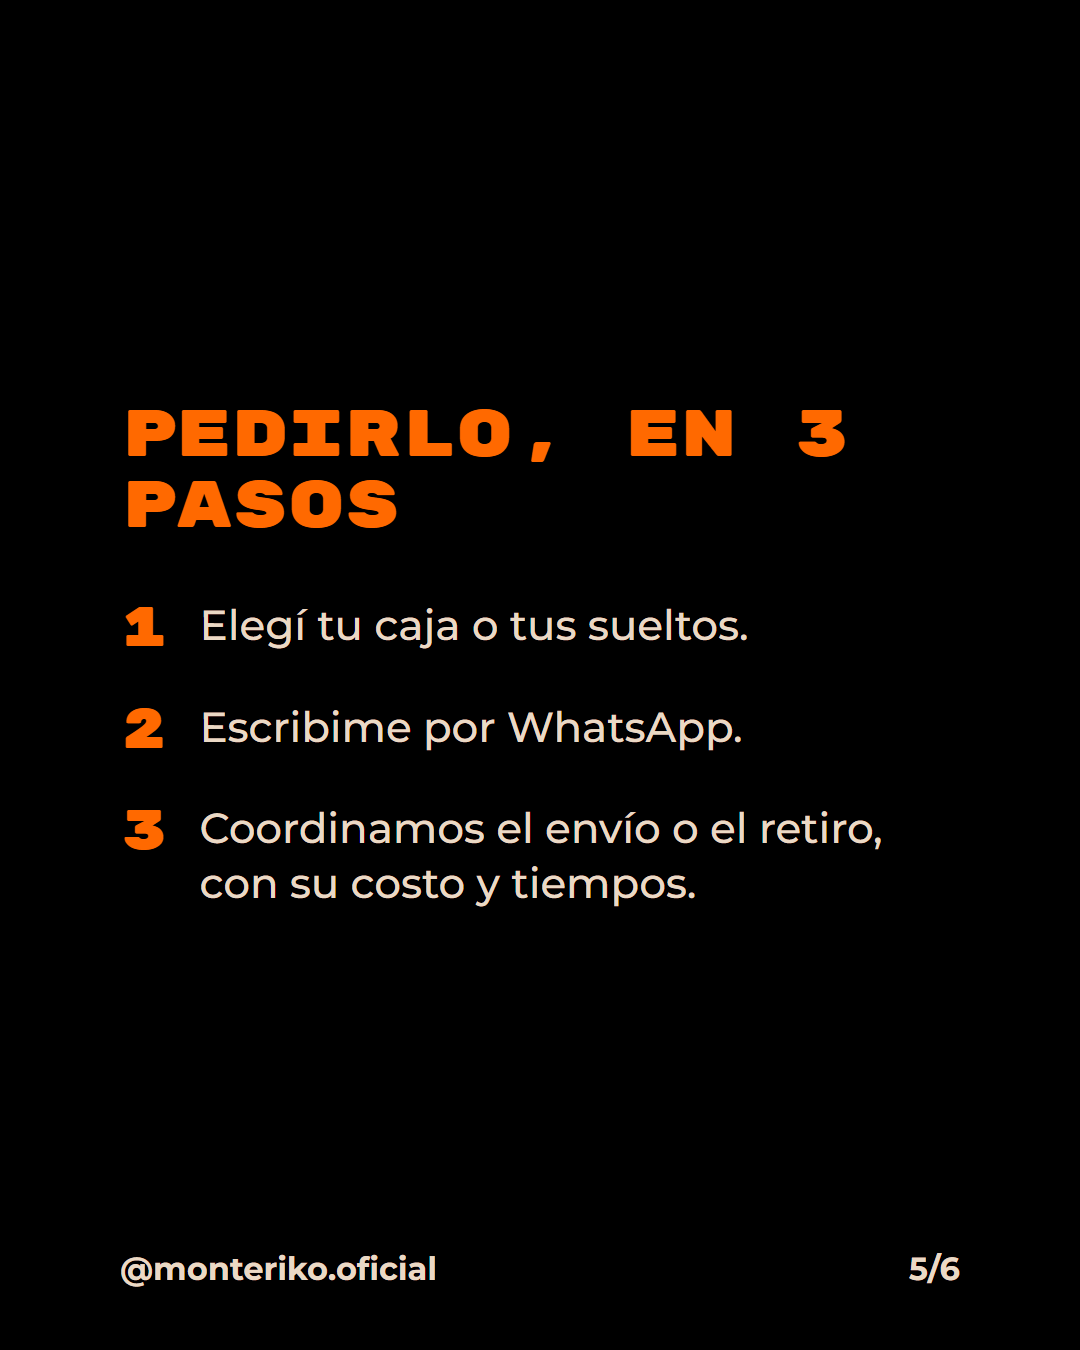
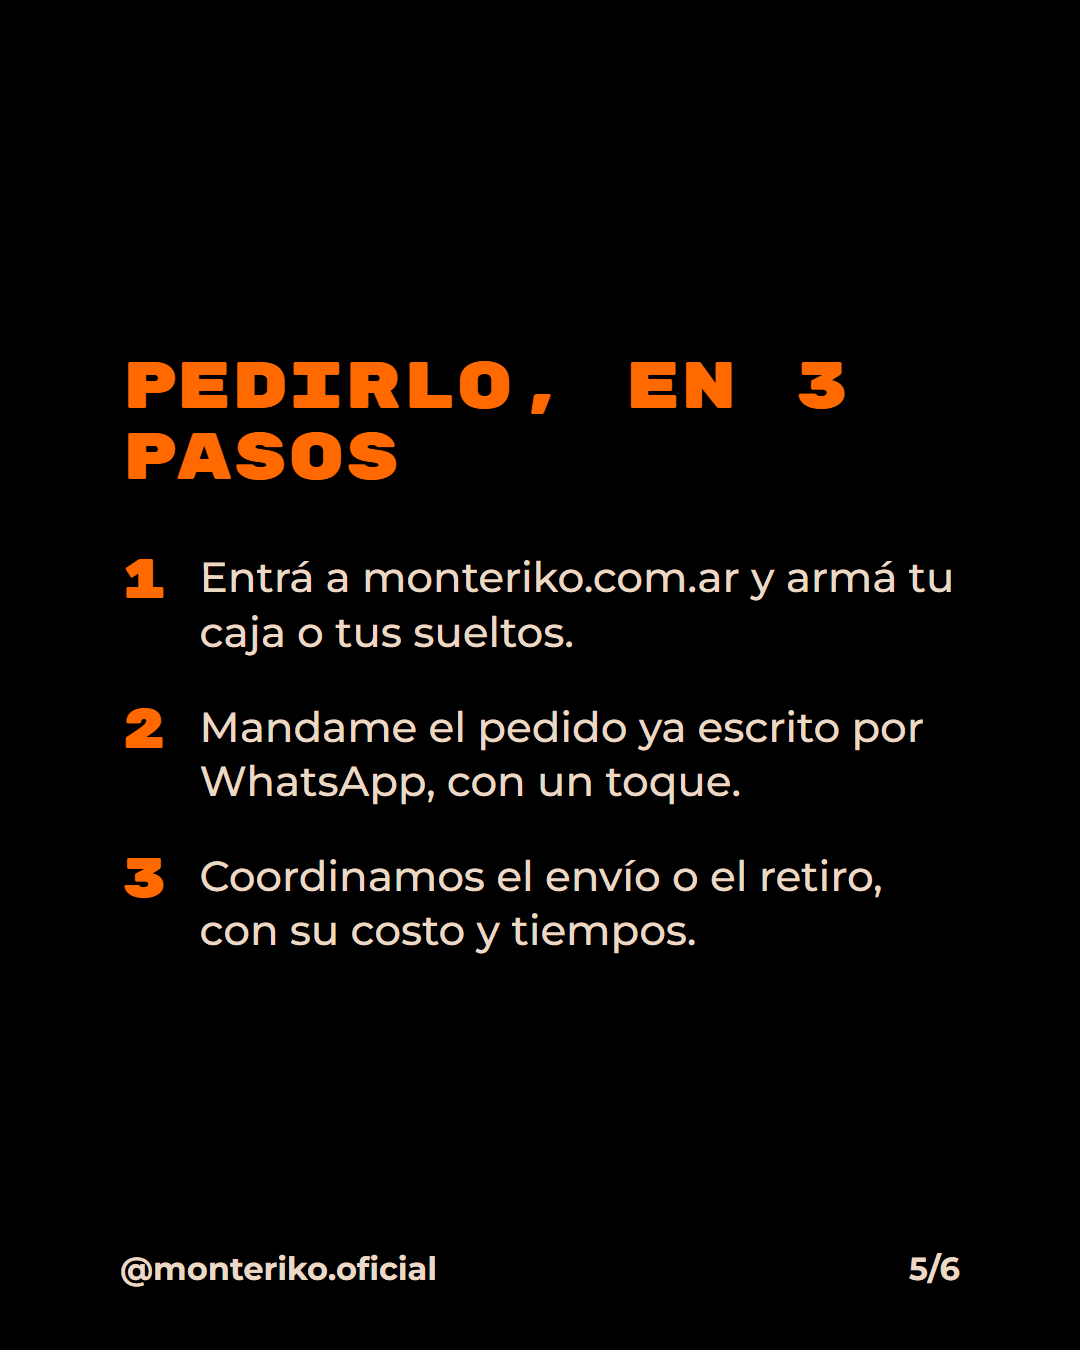
Instagram: todos los pedidos pasan a la página, con plan y carrusel actualizados

diff --git a/monte-riko/carruseles/como-pedir/diapositivas.html b/monte-riko/carruseles/como-pedir/diapositivas.html
@@ -76,16 +76,16 @@
 
 <section>
   <h2>Pedirlo, en 3 pasos</h2>
-  <div class="paso"><i>1</i><p>Elegí tu caja o tus sueltos.</p></div>
-  <div class="paso"><i>2</i><p>Escribime por WhatsApp.</p></div>
+  <div class="paso"><i>1</i><p>Entrá a monteriko.com.ar y armá tu caja o tus sueltos.</p></div>
+  <div class="paso"><i>2</i><p>Mandame el pedido ya escrito por WhatsApp, con un toque.</p></div>
   <div class="paso"><i>3</i><p>Coordinamos el envío o el retiro, con su costo y tiempos.</p></div>
   <div class="pie"><span>@monteriko.oficial</span><span>5/6</span></div>
 </section>
 
 <section class="naranja">
   <h1>Disfrutalo hoy.</h1>
-  <p class="numero">223 618-8694</p>
-  <p style="font-weight:700">Escribime por WhatsApp.</p>
+  <p class="numero" style="font-size:54px">monteriko.com.ar</p>
+  <p style="font-weight:700">Armá tu caja desde el link de la bio.</p>
   <div class="pie"><span>@monteriko.oficial</span><span>6/6</span></div>
 </section>
 

diff --git a/monte-riko/instagram-plan-noviembre-2026.md b/monte-riko/instagram-plan-noviembre-2026.md
@@ -1,6 +1,6 @@
 # Plan de Instagram: noviembre 2026
 
-Objetivo que eligió Tomás (30 de octubre 2026): **más ventas**. Todos los posts piden lo mismo: escribir por WhatsApp al 223 618-8694.
+Objetivo que eligió Tomás (30 de octubre 2026): **más ventas**. Todos los posts piden lo mismo: entrar a la página desde el link de la bio y armar el pedido, que le llega a Tomás ya escrito por WhatsApp (decisión de Tomás, 31 de octubre 2026). Las descripciones de Instagram no tienen links que se puedan tocar: por eso dicen "link de la bio".
 
 ## En qué se basa
 Solo se pudieron mirar los me gusta en la página de cada post. El alcance, los guardados y las veces que se compartió están en "Ver insights", en la app.
@@ -41,7 +41,7 @@ Tres posts por semana, a un ritmo que una sola persona pueda sostener: **martes 
 Tomás los revisa antes de publicar. En los reels el video ya engancha, así que el texto va directo al pedido. En las fotos la primera línea es la que engancha.
 
 ### Mar 3: Quién está detrás
-Los pedidos están abiertos: escribime por WhatsApp al 223 618-8694.
+Los pedidos están abiertos: armá tu caja desde el link de la bio.
 
 Soy Tomás y hago alfajores artesanales en mi casa de Mar del Plata. Empecé vendiendo en la escuela, sin tener idea de cómo llevar un negocio.
 
@@ -52,15 +52,15 @@ Hoy hago todo yo: la masa, el chocolate, las cajas y los envíos. Y sigo aprendi
 ### Jue 5: Cómo pedir tu caja
 Pedir tus alfajores lleva menos que comerte uno.
 
-Elegís media docena o docena, marplatenses, patagónicos o surtidos, al mismo precio. Me escribís por WhatsApp y coordinamos el envío o el retiro en Mar del Plata.
+Entrás al link de la bio y armás tu caja: media docena o docena, marplatenses, patagónicos o surtidos, al mismo precio. El pedido me llega ya escrito por WhatsApp y coordinamos el envío o el retiro en Mar del Plata.
 
 Las cajas van a todo el país.
 
-Guardate este post para cuando te den ganas. O escribime ahora al 223 618-8694.
+Guardate este post para cuando te den ganas. O armá tu caja ahora.
 
 #alfajores #alfajoresartesanales #mardelplata
 
-*Texto alternativo:* carrusel con los precios de los alfajores Monte Riko y los pasos para pedirlos por WhatsApp.
+*Texto alternativo:* carrusel con los precios de los alfajores Monte Riko y los pasos para pedirlos desde monteriko.com.ar.
 
 ### Sáb 7: La caja y el papel dorado
 Hay regalos que se abren dos veces.
@@ -69,14 +69,14 @@ Primero la caja. Después el papel dorado. Cada alfajor Monte Riko llega envuelt
 
 Media docena $16.500, docena $31.900. Podés surtirlas como quieras y van a todo el país.
 
-Pedí la tuya por WhatsApp: 223 618-8694.
+Armá la tuya desde el link de la bio.
 
 #alfajores #alfajoresartesanales #regalos
 
 *Texto alternativo:* caja abierta con cuatro alfajores envueltos en papel dorado.
 
 ### Mar 10: La harina y la masa
-Si querés probarlos, escribime por WhatsApp al 223 618-8694.
+Si querés probarlos, armá tu pedido desde el link de la bio.
 
 Así arranca cada alfajor Monte Riko: tapas de chocolate hechas a mano, en mi casa de Mar del Plata, de a una por vez.
 
@@ -91,25 +91,25 @@ Si una de estas 3 partes falla, falla el alfajor.
 2. El relleno: le da humedad a las tapas.
 3. El chocolate: el cierre que equilibra todo.
 
-Pasá y fijate cómo las hago yo. Si después te da hambre, ya sabés: WhatsApp 223 618-8694.
+Pasá y fijate cómo las hago yo. Si después te da hambre, ya sabés: link de la bio.
 
 #alfajores #alfajoresartesanales #chocolate
 
-*Diapositivas:* 1) SI UNA FALLA, FALLA EL ALFAJOR. 2) Las 3 partes de un alfajor de verdad. 3) LAS TAPAS: la base y la textura. 4) EL RELLENO: le da humedad a las tapas. 5) EL CHOCOLATE: el cierre que equilibra todo. 6) Las 3 juntas: las tres líneas en una sola diapositiva. 7) Probalo: WhatsApp 223 618-8694.
+*Diapositivas:* 1) SI UNA FALLA, FALLA EL ALFAJOR. 2) Las 3 partes de un alfajor de verdad. 3) LAS TAPAS: la base y la textura. 4) EL RELLENO: le da humedad a las tapas. 5) EL CHOCOLATE: el cierre que equilibra todo. 6) Las 3 juntas: las tres líneas en una sola diapositiva. 7) Probalo: monteriko.com.ar, link en la bio.
 
 ### Sáb 14: Auténtico marplatense
 Un alfajor, un termo y Mar del Plata de fondo. No hace falta mucho más.
 
 Monte Riko es auténtico marplatense: hecho acá, en una casa, por una sola persona.
 
-Si estás lejos, las cajas viajan a todo el país. Escribime al 223 618-8694.
+Si estás lejos, las cajas viajan a todo el país. Armá la tuya desde el link de la bio.
 
 #mardelplata #alfajores #alfajoresartesanales
 
 *Texto alternativo:* alfajor y termo en la playa, con los edificios de Mar del Plata de fondo.
 
 ### Mar 17: Cortar las tapas
-Las cajas surtidas te salen lo mismo: pedila por WhatsApp al 223 618-8694.
+Las cajas surtidas te salen lo mismo: armá la tuya desde el link de la bio.
 
 Una por una, con el cortante. Mirá cómo queda la masa llena de círculos al final.
 
@@ -122,14 +122,14 @@ Mirá lo que tiene adentro.
 
 El patagónico lleva dulce de leche y un corazón de mermelada de frutos rojos. Cada uno sale $3.000 y lo podés sumar a tu caja surtida.
 
-Pedilo por WhatsApp: 223 618-8694.
+Armá tu caja desde el link de la bio.
 
 #alfajores #frutosrojos #alfajoresartesanales
 
 *Texto alternativo:* alfajor patagónico cortado al medio, con frutos rojos alrededor.
 
 ### Sáb 21: Cómo empezó todo
-Si querés ver en qué terminó aquello de la escuela, escribime por WhatsApp al 223 618-8694.
+Si querés ver en qué terminó aquello de la escuela, armá tu caja desde el link de la bio.
 
 Empecé haciendo alfajores de chocolate para probar recetas. Los llevé a la escuela y me fue muy bien. Con eso fui comprando herramientas de a poco.
 
@@ -140,7 +140,7 @@ Todavía no hay local ni fábrica. Por ahora.
 *Guion:* "Mis primeros alfajores los vendí en la escuela." Contá vos, en 20 o 30 segundos, qué pasó el primer día. Cerrá con: "Hoy los mando a todo el país."
 
 ### Mar 24: Estirar y apilar
-Pedí tu caja por WhatsApp: 223 618-8694.
+Armá tu caja desde el link de la bio.
 
 Estirar, cortar, apilar. Así todas las semanas, en mi casa de Mar del Plata.
 
@@ -149,7 +149,7 @@ Hay cosas que no se piensan, se muerden.
 #alfajores #alfajoresartesanales #mardelplata
 
 ### Jue 26: 10 minutos en el freezer
-¿Ya tenés tu caja? Si no, escribime por WhatsApp al 223 618-8694.
+¿Ya tenés tu caja? Si no, armala desde el link de la bio.
 
 Probá esto: 10 minutos en el freezer antes de comerlo. Después me contás.
 
@@ -162,18 +162,18 @@ Si ya estás pensando qué regalar a fin de año, esto te resuelve varios nombre
 
 Caja de 6 o de 12, surtida como quieras y con cada alfajor en papel dorado. Van a todo el país.
 
-Media docena $16.500, docena $31.900. Pedilas por WhatsApp: 223 618-8694.
+Media docena $16.500, docena $31.900. Armalas desde el link de la bio.
 
 #alfajores #regalos #mardelplata
 
 *Texto alternativo:* alfajor Monte Riko envuelto en papel dorado.
 
 ## Historias (todos los días, 3 pantallas)
-Son para vender sin hacer un post. Grabá lo que esté pasando ese día, no hace falta editar.
+Son para vender sin hacer un post. Grabá lo que esté pasando ese día, no hace falta editar. **Las historias sí llevan links que se tocan:** poné el sticker de enlace a monteriko.com.ar siempre que se hable de pedir.
 - **Lunes:** lo que estás cocinando hoy.
 - **Martes y jueves:** compartí el post del día con una encuesta: "¿Marplatense o patagónico?"
 - **Miércoles:** caja de preguntas: "¿Qué querés saber de Monte Riko?"
-- **Viernes:** cajas listas para salir, con el número de WhatsApp.
+- **Viernes:** cajas listas para salir, con el sticker de enlace a la página.
 - **Sábado y domingo:** si alguien te etiqueta, compartilo. Si no, nada.
 
 ## 20 minutos por día, antes de publicar
@@ -184,5 +184,5 @@ Son para vender sin hacer un post. Grabá lo que esté pasando ese día, no hace
 ## Cómo saber si funcionó
 Lo que importa no son los me gusta. Anotá cada semana:
 1. Cuántos pedidos entraron por Instagram (preguntá "¿de dónde nos conociste?").
-2. Cuántos mensajes de WhatsApp vinieron de la bio.
+2. Cuántos pedidos llegaron armados desde la página (arrancan con "¡Hola Monte Riko! Quiero").
 3. Qué reel tuvo más gente que no te seguía (en "Ver insights").

diff --git a/monte-riko/instagram.md b/monte-riko/instagram.md
@@ -11,6 +11,8 @@ Qué se va a revisar: nombre, bio, link, destacadas, los 3 posts fijados, el fee
 
 Objetivo elegido por Tomás (30 de octubre 2026): **más ventas**. Plan del mes: `instagram-plan-noviembre-2026.md`.
 
+**La página va primero (Tomás, 31 de octubre 2026):** Instagram tiene que mandar a monteriko.com.ar, porque ahí la gente arma el pedido y le llega ya escrito por WhatsApp. Por eso el plan, el carrusel y los borradores dicen "link de la bio", y las historias llevan el sticker de enlace. Tomás también quiere una bio más simpática: falta que elija el texto.
+
 ### Cómo está el perfil (visto en Chrome, 30 de octubre 2026)
 - 11 publicaciones, 580 seguidores, 31 seguidos.
 - En la versión web del perfil no se ve link en la bio ni botón de contacto: falta confirmar en el celu.
@@ -33,7 +35,7 @@ Claude los hizo desde Chrome a pedido de Tomás, que se tuvo que ir y dijo "camb
 ### Lo que tiene que hacer Tomás (desde el celu, 30 de octubre 2026)
 1. Apretar **Push origin** en GitHub Desktop.
 2. Revisar el nombre y la bio nuevos.
-3. Decir si le sirve el link `monteriko.com.ar` y ponerlo en la bio.
+3. **Antes del martes 3:** poner el link `monteriko.com.ar` en el perfil, desde el celu. Todos los posts mandan al "link de la bio" y hoy no está.
 4. Fijar el reel del proceso del 19 de noviembre 2025 (123 me gusta) y sacar de fijados la foto de dic 2024.
 5. Archivar la copia del reel del patagónico del 25 de febrero.
 6. Cambiar el nombre de la destacada "ustedess". Desde la compu no se pudo: al editarla, la lista de historias aparecía vacía y se canceló para no vaciarla.

diff --git a/monte-riko/instagram-voz.md b/monte-riko/instagram-voz.md
@@ -41,7 +41,7 @@ Solo cosas reales. Si esto está vacío, los borradores dejan `{{tu dato}}` en v
 - Envíos a todo el país y dentro de Mar del Plata; retiro coordinado en Mar del Plata.
 
 ## Lo que le pido a la gente
-- **Acción principal:** pedir por WhatsApp, +54 9 223 618-8694.
+- **Acción principal (Tomás, 31 de octubre 2026):** armar el pedido en monteriko.com.ar, desde el link de la bio. El pedido le llega ya escrito por WhatsApp. El número (+54 9 223 618-8694) queda para quien prefiera escribir directo.
 - **Palabra clave para comentarios, si uso una:**
-- **A dónde va el link de la bio:**
+- **A dónde va el link de la bio:** https://monteriko.com.ar
 - "Vos sos nuestro mejor influencer": subilo a tu historia y etiquetá a @monteriko.oficial.
